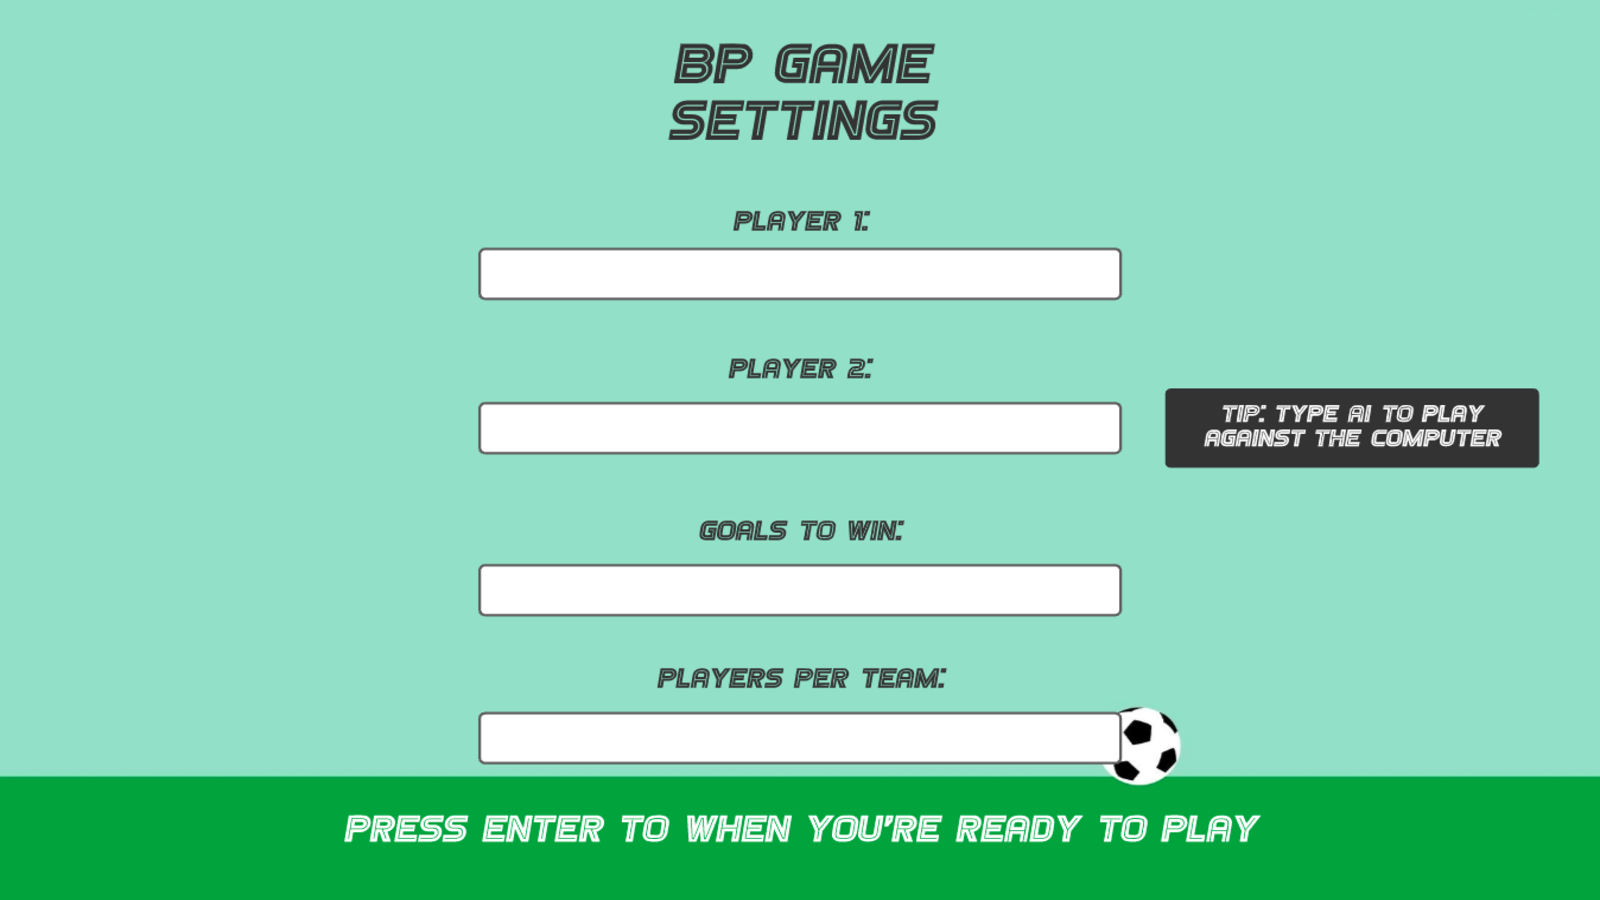
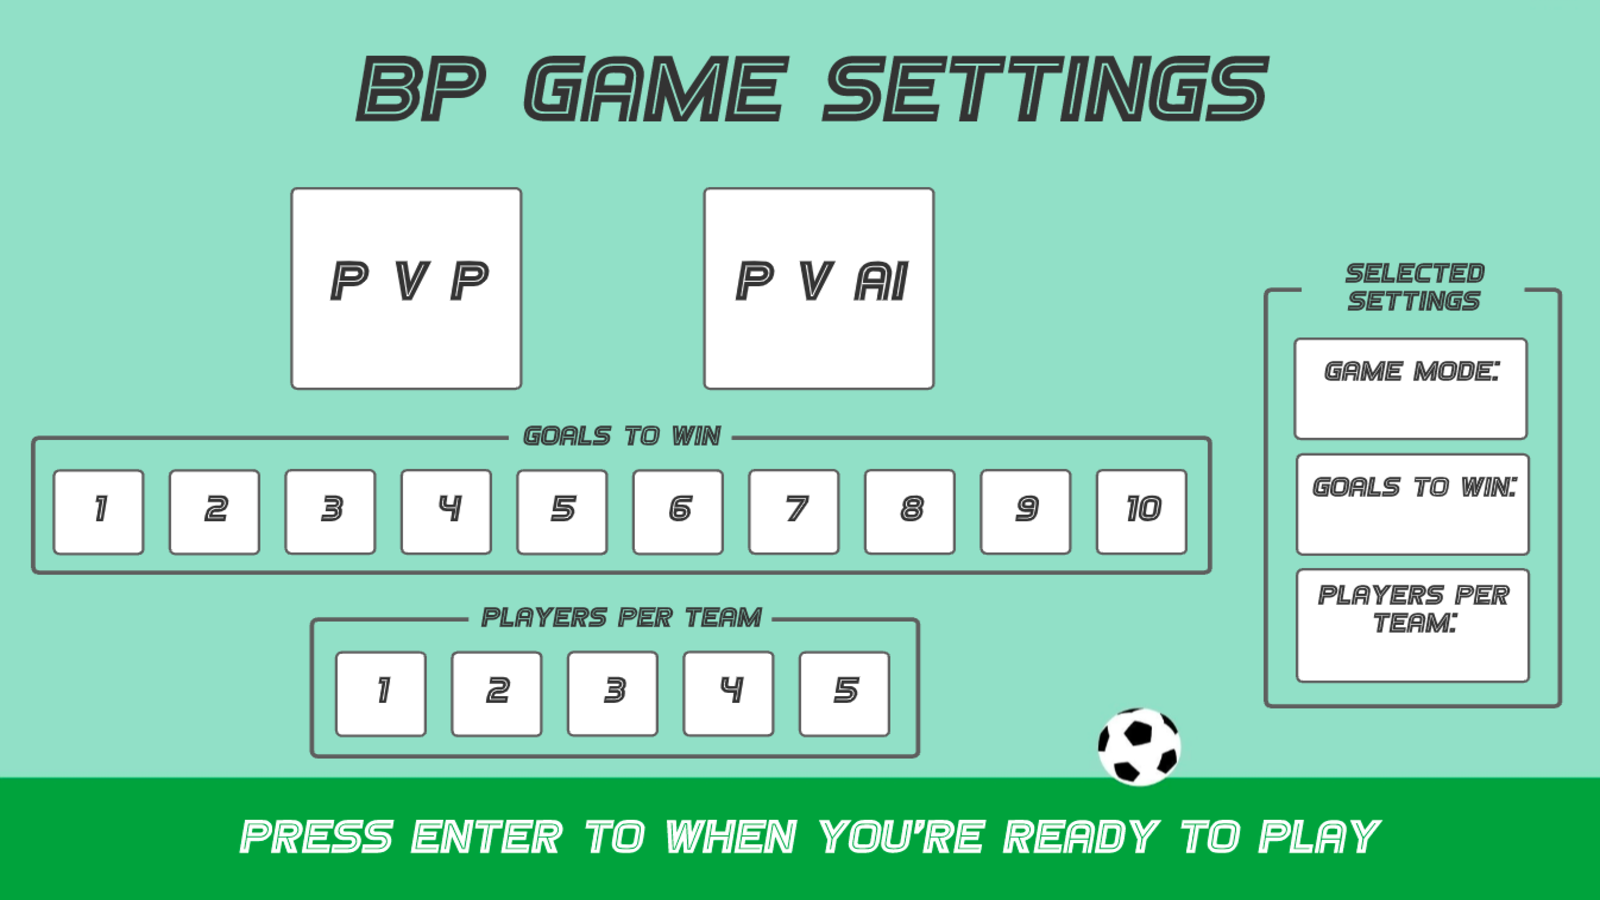
Finished the BP Game Settings Window
Ready the BP Game settings window

diff --git a/Views/BPGameSettings.h b/Views/BPGameSettings.h
@@ -1,4 +1,5 @@
 using namespace std;
+
 #include "iostream"
 
 #ifndef PROYECTO_II_CLIENT_CE2103__BPGAMESETTINGS_H
@@ -7,33 +8,217 @@ using namespace std;
 #include <SFML/Graphics.hpp>
 #include "BPGame.h"
 
-class BPGameSettings{
+class BPGameSettings {
 private:
-    string player1 = "";
-    string player2 = "";
-    int playersPerteam = 0;
+    string gamemode = "PvAI";
     int goalsTowin = 0;
+    int playersPerteam = 0;
+
 public:
-    int start(){
+    int start() {
         int width = 1600;
         int height = 900;
         sf::RenderWindow window(sf::VideoMode(width, height), "BP Game Settings");
 
-        sf::Texture background;
-        if (!background.loadFromFile(
+        sf::Texture bpGamebackground;
+        if (!bpGamebackground.loadFromFile(
                 "/home/joseandres216/Escritorio/Jose Andres/TEC/Semestre V/Datos II/Proyecto II - Games/Client/Proyecto_II_Client_CE2103-/content/BPGameSettingsBackground.png"))
             return EXIT_FAILURE;
-        sf::Sprite backgroundSprite(background);
+        sf::Sprite bpGamebackgroundSprite(bpGamebackground);
 
         sf::Font font;
         if (!font.loadFromFile(
-                "/home/joseandres216/Escritorio/Jose Andres/TEC/Semestre V/Datos II/Proyecto II - Games/Client/Proyecto_II_Client_CE2103-/Fonts/Ubuntu/Ubuntu-Regular.ttf")) {
+                "/home/joseandres216/Escritorio/Jose Andres/TEC/Semestre V/Datos II/Proyecto II - Games/Client/Proyecto_II_Client_CE2103-/Fonts/Games/Games-Italic.ttf")) {
             window.close();
         }
+
+        //Text of the selected gamemode
+        sf::Text selectedGamemode;
+        selectedGamemode.setFont(font);
+        selectedGamemode.setString(this->gamemode);
+        selectedGamemode.setCharacterSize(25);
+        selectedGamemode.setFillColor(sf::Color::Black);
+        selectedGamemode.setPosition(1390, 390);
+
+        //Text of the selected goals to win
+        sf::Text selectedGTW;
+        selectedGTW.setFont(font);
+        selectedGTW.setString(to_string(this->goalsTowin));
+        selectedGTW.setCharacterSize(30);
+        selectedGTW.setFillColor(sf::Color::Black);
+        selectedGTW.setPosition(1405, 505);
+
+        //Text of the selected players per team
+        sf::Text selectedPPT;
+        selectedPPT.setFont(font);
+        selectedPPT.setString(to_string(this->playersPerteam));
+        selectedPPT.setCharacterSize(30);
+        selectedPPT.setFillColor(sf::Color::Black);
+        selectedPPT.setPosition(1405, 640);
 
         while (window.isOpen()) {
             sf::Event event;
             while (window.pollEvent(event)) {
+                if (event.type == sf::Event::MouseButtonReleased) {
+                    if (event.mouseButton.button == sf::Mouse::Left) {
+                        cout << "x: " << event.mouseButton.x << endl;
+                        cout << "y: " << event.mouseButton.y << endl << endl;
+                    }
+                }
+                //PvP Button
+                if (event.type == sf::Event::MouseButtonReleased) {
+                    if (event.mouseButton.button == sf::Mouse::Left) {
+                        if (event.mouseButton.x >= 290 && event.mouseButton.x <= 520 && event.mouseButton.y >= 190 &&
+                            event.mouseButton.y <= 390) {
+                            this->gamemode = "PvP";
+                        }
+                    }
+                }
+                //PvAI Button
+                if (event.type == sf::Event::MouseButtonReleased) {
+                    if (event.mouseButton.button == sf::Mouse::Left) {
+                        if (event.mouseButton.x >= 705 && event.mouseButton.x <= 935 && event.mouseButton.y >= 190 &&
+                            event.mouseButton.y <= 390) {
+                            this->gamemode = "PvAI";
+                        }
+                    }
+                }
+                //1GTW Button
+                if (event.type == sf::Event::MouseButtonReleased) {
+                    if (event.mouseButton.button == sf::Mouse::Left) {
+                        if (event.mouseButton.x >= 55 && event.mouseButton.x <= 145 && event.mouseButton.y >= 470 &&
+                            event.mouseButton.y <= 555) {
+                            this->goalsTowin = 1;
+                        }
+                    }
+                }
+                //2GTW Button
+                if (event.type == sf::Event::MouseButtonReleased) {
+                    if (event.mouseButton.button == sf::Mouse::Left) {
+                        if (event.mouseButton.x >= 170 && event.mouseButton.x <= 260 && event.mouseButton.y >= 470 &&
+                            event.mouseButton.y <= 555) {
+                            this->goalsTowin = 2;
+                        }
+                    }
+                }
+                //3GTW Button
+                if (event.type == sf::Event::MouseButtonReleased) {
+                    if (event.mouseButton.button == sf::Mouse::Left) {
+                        if (event.mouseButton.x >= 285 && event.mouseButton.x <= 375 && event.mouseButton.y >= 470 &&
+                            event.mouseButton.y <= 555) {
+                            this->goalsTowin = 3;
+                        }
+                    }
+                }
+                //4GTW Button
+                if (event.type == sf::Event::MouseButtonReleased) {
+                    if (event.mouseButton.button == sf::Mouse::Left) {
+                        if (event.mouseButton.x >= 405 && event.mouseButton.x <= 495 && event.mouseButton.y >= 470 &&
+                            event.mouseButton.y <= 555) {
+                            this->goalsTowin = 4;
+                        }
+                    }
+                }
+                //5GTW Button
+                if (event.type == sf::Event::MouseButtonReleased) {
+                    if (event.mouseButton.button == sf::Mouse::Left) {
+                        if (event.mouseButton.x >= 520 && event.mouseButton.x <= 605 && event.mouseButton.y >= 470 &&
+                            event.mouseButton.y <= 555) {
+                            this->goalsTowin = 5;
+                        }
+                    }
+                }
+                //6GTW Button
+                if (event.type == sf::Event::MouseButtonReleased) {
+                    if (event.mouseButton.button == sf::Mouse::Left) {
+                        if (event.mouseButton.x >= 635 && event.mouseButton.x <= 720 && event.mouseButton.y >= 470 &&
+                            event.mouseButton.y <= 555) {
+                            this->goalsTowin = 6;
+                        }
+                    }
+                }
+                //7GTW Button
+                if (event.type == sf::Event::MouseButtonReleased) {
+                    if (event.mouseButton.button == sf::Mouse::Left) {
+                        if (event.mouseButton.x >= 750 && event.mouseButton.x <= 835 && event.mouseButton.y >= 470 &&
+                            event.mouseButton.y <= 555) {
+                            this->goalsTowin = 7;
+                        }
+                    }
+                }
+                //8GTW Button
+                if (event.type == sf::Event::MouseButtonReleased) {
+                    if (event.mouseButton.button == sf::Mouse::Left) {
+                        if (event.mouseButton.x >= 870 && event.mouseButton.x <= 955 && event.mouseButton.y >= 470 &&
+                            event.mouseButton.y <= 555) {
+                            this->goalsTowin = 8;
+                        }
+                    }
+                }
+                //9GTW Button
+                if (event.type == sf::Event::MouseButtonReleased) {
+                    if (event.mouseButton.button == sf::Mouse::Left) {
+                        if (event.mouseButton.x >= 980 && event.mouseButton.x <= 1070 && event.mouseButton.y >= 470 &&
+                            event.mouseButton.y <= 555) {
+                            this->goalsTowin = 9;
+                        }
+                    }
+                }
+                //10GTW Button
+                if (event.type == sf::Event::MouseButtonReleased) {
+                    if (event.mouseButton.button == sf::Mouse::Left) {
+                        if (event.mouseButton.x >= 1100 && event.mouseButton.x <= 1185 && event.mouseButton.y >= 470 &&
+                            event.mouseButton.y <= 555) {
+                            this->goalsTowin = 10;
+                        }
+                    }
+                }
+                //1PPT Button
+                if (event.type == sf::Event::MouseButtonReleased) {
+                    if (event.mouseButton.button == sf::Mouse::Left) {
+                        if (event.mouseButton.x >= 335 && event.mouseButton.x <= 425 && event.mouseButton.y >= 655 &&
+                            event.mouseButton.y <= 735) {
+                            this->playersPerteam = 1;
+                        }
+                    }
+                }
+                //2PPT Button
+                if (event.type == sf::Event::MouseButtonReleased) {
+                    if (event.mouseButton.button == sf::Mouse::Left) {
+                        if (event.mouseButton.x >= 455 && event.mouseButton.x <= 540 && event.mouseButton.y >= 655 &&
+                            event.mouseButton.y <= 735) {
+                            this->playersPerteam = 2;
+                        }
+                    }
+                }
+                //3PPT Button
+                if (event.type == sf::Event::MouseButtonReleased) {
+                    if (event.mouseButton.button == sf::Mouse::Left) {
+                        if (event.mouseButton.x >= 570 && event.mouseButton.x <= 655 && event.mouseButton.y >= 655 &&
+                            event.mouseButton.y <= 735) {
+                            this->playersPerteam = 3;
+                        }
+                    }
+                }
+                //4PPT Button
+                if (event.type == sf::Event::MouseButtonReleased) {
+                    if (event.mouseButton.button == sf::Mouse::Left) {
+                        if (event.mouseButton.x >= 685 && event.mouseButton.x <= 775 && event.mouseButton.y >= 655 &&
+                            event.mouseButton.y <= 735) {
+                            this->playersPerteam = 4;
+                        }
+                    }
+                }
+                //5PPT Button
+                if (event.type == sf::Event::MouseButtonReleased) {
+                    if (event.mouseButton.button == sf::Mouse::Left) {
+                        if (event.mouseButton.x >= 800 && event.mouseButton.x <= 890 && event.mouseButton.y >= 655 &&
+                            event.mouseButton.y <= 735) {
+                            this->playersPerteam = 5;
+                        }
+                    }
+                }
+                //Enter input to change to BP Game Window
                 if (event.type == sf::Event::KeyReleased) {
                     if (event.key.code == sf::Keyboard::Enter) {
                         window.close();
@@ -50,7 +235,13 @@ public:
                     window.close();
             }
             window.clear();
-            window.draw(backgroundSprite);
+            window.draw(bpGamebackgroundSprite);
+            selectedGamemode.setString(this->gamemode);
+            selectedGTW.setString(to_string(this->goalsTowin));
+            selectedPPT.setString(to_string(this->playersPerteam));
+            window.draw(selectedGamemode);
+            window.draw(selectedGTW);
+            window.draw(selectedPPT);
             window.display();
         }
     }

diff --git a/Views/MainWindow.h b/Views/MainWindow.h
@@ -6,9 +6,9 @@
 
 #include <SFML/Graphics.hpp>
 
-class MainWindow{
+class MainWindow {
 public:
-    int start(){
+    int start() {
         int width = 1600;
         int height = 900;
         sf::RenderWindow window(sf::VideoMode(width, height), "Let's Play");
@@ -17,7 +17,7 @@ public:
         if (!menuBackground.loadFromFile(
                 "/home/joseandres216/Escritorio/Jose Andres/TEC/Semestre V/Datos II/Proyecto II - Games/Client/Proyecto_II_Client_CE2103-/content/MenuBackground.png"))
             return EXIT_FAILURE;
-        sf::Sprite menuBackgroundprite(menuBackground);
+        sf::Sprite menuBackgroundsprite(menuBackground);
 
         sf::Font font;
         if (!font.loadFromFile(
@@ -69,12 +69,13 @@ public:
                 }
             }
             window.clear();
-            window.draw(menuBackgroundprite);
+            window.draw(menuBackgroundsprite);
             window.draw(bpGametext);
             window.draw(geneticPuzzletext);
             window.display();
         }
     }
+
 private:
 };
 

diff --git a/Views/GeneticPuzzleSettings.h b/Views/GeneticPuzzleSettings.h
@@ -4,9 +4,9 @@
 #include <SFML/Graphics.hpp>
 #include "GeneticPuzzle.h"
 
-class GeneticPuzzleSettings{
+class GeneticPuzzleSettings {
 public:
-    int start(){
+    int start() {
         int width = 1600;
         int height = 900;
         sf::RenderWindow window(sf::VideoMode(width, height), "Genetic Puzzle Settings");
@@ -49,6 +49,7 @@ public:
             window.display();
         }
     }
+
 private:
 };
 

diff --git a/Views/GeneticPuzzle.h b/Views/GeneticPuzzle.h
@@ -3,9 +3,9 @@
 
 #include <SFML/Graphics.hpp>
 
-class GeneticPuzzle{
+class GeneticPuzzle {
 public:
-    int start(){
+    int start() {
         int width = 1600;
         int height = 900;
         sf::RenderWindow window(sf::VideoMode(width, height), "Genetic Puzzle");
@@ -41,6 +41,7 @@ public:
             window.display();
         }
     }
+
 private:
 };
 

diff --git a/Views/BPGame.h b/Views/BPGame.h
@@ -3,9 +3,9 @@
 
 #include <SFML/Graphics.hpp>
 
-class BPGame{
+class BPGame {
 public:
-    int start(){
+    int start() {
         int width = 1600;
         int height = 900;
         sf::RenderWindow window(sf::VideoMode(width, height), "BP Game");
@@ -41,6 +41,7 @@ public:
             window.display();
         }
     }
+
 private:
 };
 

diff --git a/main.cpp b/main.cpp
@@ -1,8 +1,7 @@
 #include <SFML/Graphics.hpp>
 #include "Views/MainWindow.h"
 
-int main()
-{
+int main() {
     MainWindow *window = new MainWindow();
     window->start();
     return 0;
